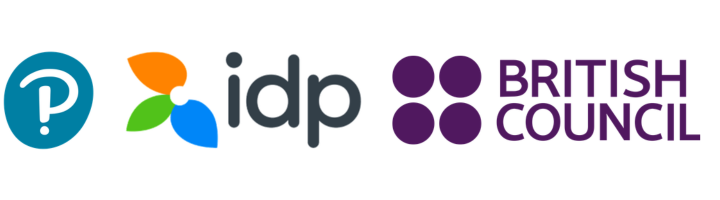
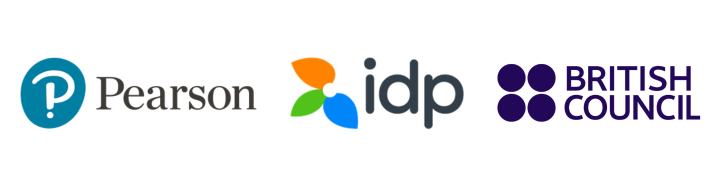
dsa

Changed region(s): [[0.0, 0.2487, 0.9778, 0.7461], [0.3056, 0.2487, 0.3361, 0.342]]

diff --git a/src/components/home/Partners.tsx b/src/components/home/Partners.tsx
@@ -25,12 +25,12 @@ export function Partners() {
             whileInView={{ opacity: 1, y: 0 }}
             viewport={{ once: true }}
             transition={{ duration: 0.6, delay: 0.1 }}
-            className="flex justify-center"
+            className="flex justify-center bg-red-300"
           >
             <img
               src="/partners.png"
               alt="Our global partners — British Council, IDP, Pearson, Edvoy, Navitas"
-              className=" w-[443px] object-contain"
+              className=" w-full object-contain"
               style={{ filter: "grayscale(0%)" }}
             />
           </motion.div>
